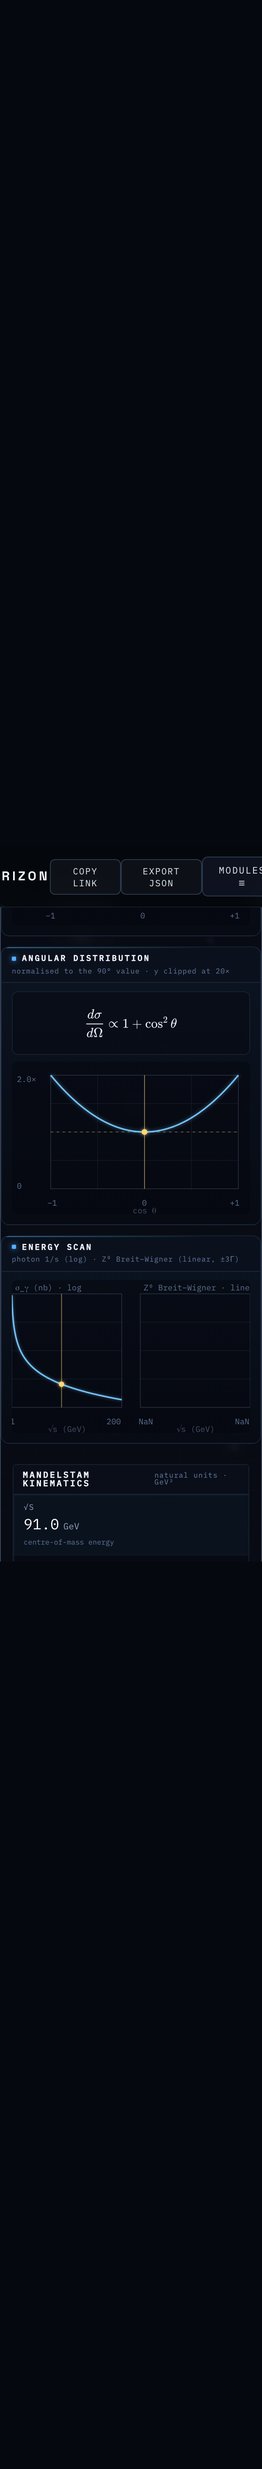
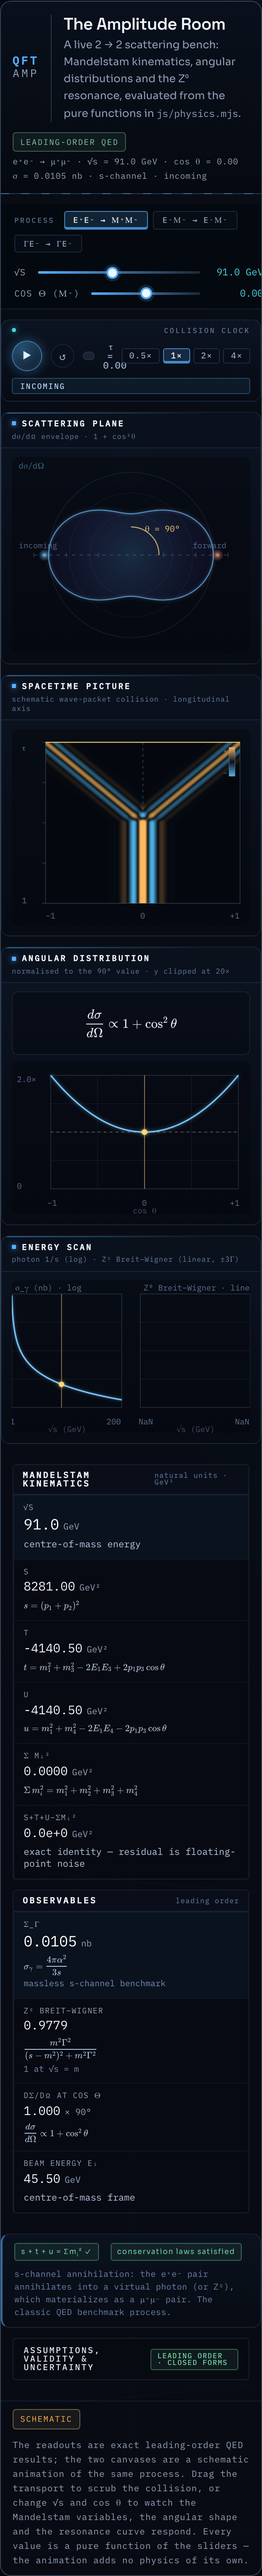
feat(qa): finish KaTeX coverage of the atlas and guard it against silent rot
Phase 1 — Kerr observatory validity panel
- KerrValidity (js/mod-blackholes.jsx): the four self-check rows and the
  "Current state" line now typeset through <Eq>. The checks array gained a
  TeX label column; stateTex is built from the live geometry values, so the
  numbers stay interpolated rather than hard-coded.
- index.html: .kerr-limit-row span and .kerr-validity-state get
  overflow-x: auto + thin scrollbars, and .katex is pinned to
  font-size: 1em / color: inherit inside both containers.
- KerrGeometryMap is deliberately left as plain SVG <text>: KaTeX in SVG
  needs foreignObject, which breaks the role="img"/aria-label model, does
  not scale with the viewBox, and the labels are short single glyphs that
  Unicode already renders correctly.

Phase 2 — regression guard
- qa/specs/kerr-observatory.spec.mjs: new katexAudit(page) helper plus two
  describes (desktop 1440x1000, mobile 390x844). Asserts a non-zero .katex
  count in the readout and formulation panels, zero .katex-error anywhere,
  that the lead readout's rendered text actually contains r, + and the
  computed 1.436 (so a blank render fails), that the validity panel
  typesets 4 limit rows + 1 state line once opened, and that there is no
  page-level horizontal overflow and no clipped readout card.
- Both describes use the default readiness list and skip settled(), so they
  are immune to the convergence timeouts that make the canvas tests flaky.

Phase 3 — QFT and GR readout panels
[…]

diff --git a/js/mod-qft.jsx b/js/mod-qft.jsx
@@ -859,12 +859,18 @@ function useQFTCanvas(draw, deps) {
   return ref;
 }
 
-function QFTReadout({ label, value, unit, formula, lead }) {
+/* Readout card. `formula` stays the plain-text caption for callers that pass
+   prose; `formulaTex` carries the governing relation as KaTeX, and `note` keeps
+   a prose gloss that would otherwise have to be crammed into the TeX. */
+function QFTReadout({ label, value, unit, formula, formulaTex, note, lead }) {
   return (
     <div className={"kerr-readout" + (lead ? " lead" : "")}>
       <div className="kerr-readout-label">{label}</div>
       <div className="kerr-readout-value">{value}{unit ? <span className="unit">{unit}</span> : null}</div>
-      <div className="kerr-readout-formula">{formula}</div>
+      {formulaTex
+        ? <div className="kerr-readout-formula"><Eq tex={formulaTex}></Eq></div>
+        : formula ? <div className="kerr-readout-formula">{formula}</div> : null}
+      {note ? <div className="kerr-readout-note">{note}</div> : null}
     </div>);
 
 }
@@ -1365,13 +1371,14 @@ function AmplitudeRoom() {
           <div className="kerr-rgrid">
             <QFTReadout lead label="√s" value={sqrtS.toFixed(1)} unit="GeV"
             formula="centre-of-mass energy"></QFTReadout>
-            <QFTReadout label="s" value={kin.s.toFixed(2)} unit="GeV²" formula="(p₁+p₂)²"></QFTReadout>
+            <QFTReadout label="s" value={kin.s.toFixed(2)} unit="GeV²"
+            formulaTex="s = (p_1 + p_2)^2"></QFTReadout>
             <QFTReadout label="t" value={kin.t.toFixed(2)} unit="GeV²"
-            formula="m₁²+m₃²−2E₁E₃+2p₁p₃cos θ"></QFTReadout>
+            formulaTex="t = m_1^2 + m_3^2 - 2E_1E_3 + 2p_1p_3\cos\theta"></QFTReadout>
             <QFTReadout label="u" value={kin.u.toFixed(2)} unit="GeV²"
-            formula="m₁²+m₄²−2E₁E₄−2p₁p₃cos θ"></QFTReadout>
+            formulaTex="u = m_1^2 + m_4^2 - 2E_1E_4 - 2p_1p_3\cos\theta"></QFTReadout>
             <QFTReadout label="Σ mᵢ²" value={kin.sum.toFixed(4)} unit="GeV²"
-            formula="m₁²+m₂²+m₃²+m₄²"></QFTReadout>
+            formulaTex="\Sigma\, m_i^2 = m_1^2 + m_2^2 + m_3^2 + m_4^2"></QFTReadout>
             <QFTReadout label="s+t+u−Σmᵢ²" value={kin.residual.toExponential(1)} unit="GeV²"
             formula="exact identity — residual is floating-point noise"></QFTReadout>
           </div>
@@ -1380,14 +1387,16 @@ function AmplitudeRoom() {
           <header><h4>Observables</h4><span>leading order</span></header>
           <div className="kerr-rgrid">
             <QFTReadout lead label="σ_γ" value={sigma.toFixed(4)} unit="nb"
-            formula="4πα²/3s · massless s-channel benchmark"></QFTReadout>
+            formulaTex="\sigma_\gamma = \dfrac{4\pi\alpha^2}{3s}"
+            note="massless s-channel benchmark"></QFTReadout>
             <QFTReadout label="Z⁰ Breit–Wigner" value={bw.toFixed(4)}
-            formula="m²Γ²/[(s−m²)²+m²Γ²] · 1 at √s = m"></QFTReadout>
+            formulaTex="\dfrac{m^2\Gamma^2}{(s - m^2)^2 + m^2\Gamma^2}"
+            note="1 at √s = m"></QFTReadout>
             <QFTReadout label="dσ/dΩ at cos θ" value={(shapeNow / shape90).toFixed(3)} unit="× 90°"
-            formula={process.shapeLabel}></QFTReadout>
+            formulaTex={process.shapeTex}></QFTReadout>
             {process.id === "compton" ?
             <QFTReadout label="photon energy ratio" value={photonX.toFixed(2)} unit="× mₑc²"
-            formula="x = E_γ/mₑc² · lab frame"></QFTReadout> :
+            formulaTex="x = E_\gamma / m_e c^2" note="lab frame"></QFTReadout> :
             <QFTReadout label="beam energy E₁" value={kin.E1.toFixed(2)} unit="GeV"
             formula="centre-of-mass frame"></QFTReadout>}
           </div>

diff --git a/js/mod-gr.jsx b/js/mod-gr.jsx
@@ -510,7 +510,7 @@ function CausalSpacetimeLab() {
           <div className="kerr-rgrid">
             <div className="kerr-readout lead"><div className="kerr-readout-label">separation</div>
               <div className="kerr-readout-value">{classification.type}</div>
-              <div className="kerr-readout-formula">Δs² {interval < 0 ? "<" : interval > 0 ? ">" : "="} 0</div></div>
+              <div className="kerr-readout-formula"><Eq tex={"\\Delta s^2 " + (interval < 0 ? "<" : interval > 0 ? ">" : "=") + " 0"}></Eq></div></div>
             <div className="kerr-readout"><div className="kerr-readout-label">Δct / Δx</div>
               <div className="kerr-readout-value">{deltaCt.toFixed(3)} / {deltaX.toFixed(3)}</div>
               <div className="kerr-readout-formula">B − A in frame S</div></div>
@@ -522,7 +522,7 @@ function CausalSpacetimeLab() {
               <div className="kerr-readout-formula">{Number.isFinite(proper) ? "timelike pair · seconds" : "requires Δs² < 0"}</div></div>
             <div className="kerr-readout"><div className="kerr-readout-label">S′ interval residual</div>
               <div className="kerr-readout-value">{invariantResidual.toExponential(1)}</div>
-              <div className="kerr-readout-formula">Δs′² − Δs² · floating-point</div></div>
+              <div className="kerr-readout-formula"><Eq tex="\Delta s'^2 - \Delta s^2"></Eq> · floating-point</div></div>
             <div className="kerr-readout"><div className="kerr-readout-label">simultaneity frame</div>
               <div className="kerr-readout-value">{simultaneityBeta == null ? "none" : `β = ${simultaneityBeta.toFixed(4)}`}</div>
               <div className="kerr-readout-formula">exists only for spacelike Δx ≠ 0</div></div>
@@ -533,7 +533,7 @@ function CausalSpacetimeLab() {
           <div className="kerr-rgrid">
             <div className="kerr-readout lead"><div className="kerr-readout-label">β / γ</div>
               <div className="kerr-readout-value">{beta.toFixed(3)} / {gamma.toFixed(4)}</div>
-              <div className="kerr-readout-formula">|β| ≤ 0.95</div></div>
+              <div className="kerr-readout-formula"><Eq tex="|\beta| \le 0.95"></Eq></div></div>
             <div className="kerr-readout"><div className="kerr-readout-label">Δct′ / Δx′</div>
               <div className="kerr-readout-value">{transform.deltaCtPrime.toFixed(3)} / {transform.deltaXPrime.toFixed(3)}</div>
               <div className="kerr-readout-formula">Lorentz transformed pair</div></div>

diff --git a/js/mod-blackholes.jsx b/js/mod-blackholes.jsx
@@ -293,13 +293,18 @@ function KerrReadout({ label, value, unit, formula, formulaTex, sub, subTex, lea
 
 function KerrValidity({ geometry }) {
   const limit = window.QGA_PHYSICS.kerrGeometry(0);
+  // [plain label (React key), TeX label, computed value, Schwarzschild target]
   const checks = [
-    ["r₊ → 2", limit.rPlus, 2],
-    ["ISCO → 6", limit.rIsco, 6],
-    ["photon → 3", limit.rPhoton, 3],
-    ["T_H / T_Schw → 1", limit.temperatureFactor, 1],
+    ["r₊ → 2", "r_+ \\to 2", limit.rPlus, 2],
+    ["ISCO → 6", "\\text{ISCO} \\to 6", limit.rIsco, 6],
+    ["photon → 3", "\\text{photon} \\to 3", limit.rPhoton, 3],
+    ["T_H / T_Schw → 1", "T_H / T_{\\rm Schw} \\to 1", limit.temperatureFactor, 1],
   ];
-  const allPass = checks.every(([, got, want]) => Math.abs(got - want) < 1e-9);
+  const allPass = checks.every(([, , got, want]) => Math.abs(got - want) < 1e-9);
+  const stateTex = "\\text{Current state: } a_\\star = " + geometry.a.toFixed(3) +
+    " \\;\\cdot\\; r_+ = " + geometry.rPlus.toFixed(3) +
+    " \\;\\cdot\\; \\text{ergoregion width} = " +
+    (geometry.rErgoEquator - geometry.rPlus).toFixed(3) + "\\;\\mathrm{GM}/c^2";
   return (
     <details className="kerr-validity">
       <summary>
@@ -334,15 +339,12 @@ function KerrValidity({ geometry }) {
           </dd>
           <dt>Self-check at a★ = 0</dt>
           <dd className="kerr-limit-row">
-            {checks.map(([name, got]) => (
-              <span key={name}>{name} = {got.toFixed(3)}</span>
+            {checks.map(([name, tex, got]) => (
+              <span key={name}><Eq tex={tex + " = " + got.toFixed(3)}></Eq></span>
             ))}
           </dd>
         </dl>
-        <p className="kerr-validity-state">
-          Current state: a★ = {geometry.a.toFixed(3)} · r₊ = {geometry.rPlus.toFixed(3)} ·
-          ergoregion width = {(geometry.rErgoEquator - geometry.rPlus).toFixed(3)} GM/c²
-        </p>
+        <p className="kerr-validity-state"><Eq tex={stateTex}></Eq></p>
       </div>
     </details>
   );

diff --git a/index.html b/index.html
@@ -487,6 +487,10 @@ input[type="range"]::-moz-range-thumb { width: 12px; height: 12px; border-radius
 .kerr-readout-formula::-webkit-scrollbar-thumb, .kerr-readout-sub::-webkit-scrollbar-thumb {
   background: rgba(120,160,220,0.32); border-radius: 2px;
 }
+.kerr-readout-note {
+  margin-top: 3px; font: 400 10px/1.35 var(--font-mono);
+  color: rgba(148,176,224,0.78); overflow-wrap: anywhere;
+}
 .kerr-readout-pair { margin-top: 4px; }
 .kerr-readout-pair > div { display: flex; align-items: baseline; justify-content: space-between; gap: 8px; }
 .kerr-readout-pair .sense {
@@ -521,11 +525,22 @@ input[type="range"]::-moz-range-thumb { width: 12px; height: 12px; border-radius
   font-size: 12.5px; line-height: 1.6; color: var(--text-dim);
 }
 .kerr-limit-row { display: flex; flex-wrap: wrap; gap: 6px 14px; }
-.kerr-limit-row span { font: 400 10px/1.6 var(--font-mono); color: rgba(205,219,241,0.85); }
+.kerr-limit-row span {
+  font: 400 10px/1.6 var(--font-mono); color: rgba(205,219,241,0.85);
+  max-width: 100%; overflow-x: auto; overflow-y: hidden; scrollbar-width: thin;
+}
 .kerr-validity-state {
   margin: 10px 0 0; font: 400 9.5px/1.5 var(--font-mono);
   letter-spacing: 0.04em; color: rgba(148,176,224,0.7);
 }
+/* The self-check labels and the state line are live KaTeX. Math never wraps, so
+   the state line scrolls horizontally instead of widening the validity panel. */
+.kerr-limit-row .katex, .kerr-validity-state .katex {
+  font-size: 1em; color: inherit; letter-spacing: normal;
+}
+.kerr-validity-state { overflow-x: auto; overflow-y: hidden; scrollbar-width: thin; }
+.kerr-validity-state::-webkit-scrollbar { height: 3px; }
+.kerr-validity-state::-webkit-scrollbar-thumb { background: rgba(120,160,220,0.32); border-radius: 2px; }
 
 /* ---------- live formulation panel ---------- */
 .kerr-formulation {

diff --git a/README.md b/README.md
@@ -1259,13 +1259,13 @@ Generated visual data uses the recorded seed rather than ambient randomness, so 
 
 The theatre's presentation is driven by an explicit state machine — `idle`, `loading`, `real`, `generated`, `error`, `cancelled` — surfaced as a colour-coded status pill with a live dot, the human-readable status sentence, and a contextual **Cancel** (while loading) or **Retry** (after an error or cancellation) action. A superseded or user-cancelled request never overwrites the phase the reader has already moved on to. The shared vertical scale eases toward the new peak whenever the signal changes, so switching seed, mode, or component masses rescales the trace smoothly instead of jumping; the ease is bounded (it stops once settled) and snaps instantly under reduced motion. The observation readout group and the provenance line animate in when real data lands, and the leading edge of the revealed trace carries a mode-coloured glow — blue for the generated teaching signal, cyan for the GWOSC observation — so the two are never visually confusable.
 
-The **Kerr Black Hole Observatory** animates its equatorial coordinate map rather than redrawing it: horizon, ergosphere, photon-orbit, and ISCO radii interpolate with a cubic ease-out whenever mass or spin changes, the map reports a `settling` state while it moves, and the camera presets ease between viewpoints instead of cutting. A **live formulation** panel prints the governing relations with the current numbers substituted — the horizon pair $r_\pm = M \pm \sqrt{M^2 - a^2}$, the ergosurface $r_E = M + \sqrt{M^2 - a^2\cos^2\theta}$ at both the equator and the pole, the prograde and retrograde photon orbits, the ISCO closed form with its $Z_1$/$Z_2$ intermediates, the surface-gravity ratio, the entropy area law, and the Hawking temperature — each row updating as the sliders move. Printed numbers always come from the exact geometry, never from the eased animation values, and the panel closes with an explicit note separating the exact Kerr coordinate radii from the numerically ray-traced image (display-scaled colour, no enhanced rings).
+The **Kerr Black Hole Observatory** animates its equatorial coordinate map rather than redrawing it: horizon, ergosphere, photon-orbit, and ISCO radii interpolate with a cubic ease-out whenever mass or spin changes, the map reports a `settling` state while it moves, and the camera presets ease between viewpoints instead of cutting. A **live formulation** panel prints the governing relations with the current numbers substituted — the horizon pair $r_\pm = M \pm \sqrt{M^2 - a^2}$, the ergosurface $r_E = M + \sqrt{M^2 - a^2\cos^2\theta}$ at both the equator and the pole, the prograde and retrograde photon orbits, the ISCO closed form with its $Z_1$/$Z_2$ intermediates, the surface-gravity ratio, the entropy area law, and the Hawking temperature — each row updating as the sliders move. Printed numbers always come from the exact geometry, never from the eased animation values, and the panel closes with an explicit note separating the exact Kerr coordinate radii from the numerically ray-traced image (display-scaled colour, no enhanced rings). The four self-check limit rows and the live state line are typeset with KaTeX too, so the limit labels and the substituted numbers render as real mathematics rather than Unicode approximations.
 
 The official API source used is https://gwosc.org/api/, with v2 documentation and schema at https://gwosc.org/api/v2/docs (schema: `/api/v2/schema`).
 
-The QFT **Amplitude Room** is a live 2 → 2 scattering bench. It evaluates the Mandelstam variables from the four-momenta, the angular differential cross-section, the photon 1/s total cross-section, and the Z⁰ Breit–Wigner shape on every frame, using the pure functions in `js/physics.mjs` (mirrored in `js/physics.jsx` for the browser). Three processes are offered: s-channel e⁺e⁻ → μ⁺μ⁻ (1 + cos²θ), t-channel e⁻μ⁻ → e⁻μ⁻ (leading pole 1/sin⁴(θ/2)), and Compton γe⁻ → γe⁻ (Klein–Nishina). The transport bar scrubs a normalised collision phase τ ∈ [0, 1] with play/pause, replay, and 0.5–4× speed; the animation is presentation only and the readouts do not depend on it. Playback is disabled when the OS requests reduced motion. Each of the four instrument panels carries a titled header bar, and the transport strip reports the live collision phase (incoming / interaction / outgoing) next to the clock, so the schematic canvases are always labelled as schematic. The t-channel curve deliberately plots only the leading pole — the complete Møller and Bhabha amplitudes also carry s- and u-channel terms and their interference, which are not drawn. The Z⁰ panel shows the Breit–Wigner shape alone, not the γ–Z⁰ interference term. The Compton slider x = E_γ/mₑc² is a lab-frame ratio and is deliberately decoupled from √s.
+The QFT **Amplitude Room** is a live 2 → 2 scattering bench. It evaluates the Mandelstam variables from the four-momenta, the angular differential cross-section, the photon 1/s total cross-section, and the Z⁰ Breit–Wigner shape on every frame, using the pure functions in `js/physics.mjs` (mirrored in `js/physics.jsx` for the browser). Three processes are offered: s-channel e⁺e⁻ → μ⁺μ⁻ (1 + cos²θ), t-channel e⁻μ⁻ → e⁻μ⁻ (leading pole 1/sin⁴(θ/2)), and Compton γe⁻ → γe⁻ (Klein–Nishina). The transport bar scrubs a normalised collision phase τ ∈ [0, 1] with play/pause, replay, and 0.5–4× speed; the animation is presentation only and the readouts do not depend on it. Playback is disabled when the OS requests reduced motion. Each of the four instrument panels carries a titled header bar, and the transport strip reports the live collision phase (incoming / interaction / outgoing) next to the clock, so the schematic canvases are always labelled as schematic. The t-channel curve deliberately plots only the leading pole — the complete Møller and Bhabha amplitudes also carry s- and u-channel terms and their interference, which are not drawn. The Z⁰ panel shows the Breit–Wigner shape alone, not the γ–Z⁰ interference term. The Compton slider x = E_γ/mₑc² is a lab-frame ratio and is deliberately decoupled from √s. The Mandelstam and observable readout captions are typeset with KaTeX, so the defining relation under each number is real mathematics rather than a Unicode approximation.
 
-The GR **Causal Spacetime Laboratory** is an exact 1+1D special-relativistic instrument using diagram units `c = 1 light-second per second` and metric signature `(−,+,+,+)`. It evaluates `Δs² = −(Δct)² + Δx²`, `γ`, the Lorentz-transformed event pair, causal-order verdicts, simultaneity-frame β, and timelike proper time from the pure helpers in `js/physics.mjs` and the browser mirror in `js/physics.jsx`. Five documented presets cover timelike, spacelike, null, relativity-of-simultaneity, and twin-style piecewise-inertial examples. The twin path uses two inertial legs and an explicitly schematic instantaneous turnaround; it does not model acceleration. Exact readouts always use the target β, while eased boosted axes and A′/B′ ghosts are presentation only. URL keys `grp`, `grb`, `grat`, `grax`, `grbt`, and `grbx` restore the preset, frame, and two events. β is restricted to `[-0.95, 0.95]`, coordinates to `[-4, 4]`, and invalid or out-of-range URL values fall back to the documented defaults. JSON export records the flat-spacetime model, established-special-relativity status, dimensionality, conventions, scope, implementation files, and standard references.
+The GR **Causal Spacetime Laboratory** is an exact 1+1D special-relativistic instrument using diagram units `c = 1 light-second per second` and metric signature `(−,+,+,+)`. It evaluates `Δs² = −(Δct)² + Δx²`, `γ`, the Lorentz-transformed event pair, causal-order verdicts, simultaneity-frame β, and timelike proper time from the pure helpers in `js/physics.mjs` and the browser mirror in `js/physics.jsx`. Five documented presets cover timelike, spacelike, null, relativity-of-simultaneity, and twin-style piecewise-inertial examples. The twin path uses two inertial legs and an explicitly schematic instantaneous turnaround; it does not model acceleration. Exact readouts always use the target β, while eased boosted axes and A′/B′ ghosts are presentation only. URL keys `grp`, `grb`, `grat`, `grax`, `grbt`, and `grbx` restore the preset, frame, and two events. β is restricted to `[-0.95, 0.95]`, coordinates to `[-4, 4]`, and invalid or out-of-range URL values fall back to the documented defaults. JSON export records the flat-spacetime model, established-special-relativity status, dimensionality, conventions, scope, implementation files, and standard references. The interval-classification, residual, and β-bound captions in the readout deck are typeset with KaTeX, with the interval sign built from the live computed value.
 
 The **RG Flow Landscape** records preset (`rgp`), originating preset (`rgpo`), model (`rgm`), initial coupling (`rgg`), reference scale (`rgmu`), logarithmic bounds (`rglo`, `rghi`), flavour count (`rgnf`), toy coefficients (`rga`, `rgb`, `rggs`), and current scale (`rgc`). Editing any control sets `rgp=custom` while `rgpo` retains the preset being edited, so **Reset preset** returns to that preset rather than an unrelated default; when `rgpo` is absent or incompatible with the model it is derived deterministically, keeping older links valid. Scientific status follows the active model and originating preset rather than the literal preset, so a customised asymptotic-safety-style flow keeps its conjectural badge and caveat. Ranges are validated on load; incompatible preset/model pairs resolve to the documented preset model, QED is clamped to `rgnf >= 1`, and invalid narrow ranges revert to the QCD defaults. Back/forward restores the complete instrument. The export adds the β convention, model parameters, fixed points, RK4 method and step, numerical/root tolerances, IR and UV termination status, validity disclosures, implementation provenance, and standard references.
 
